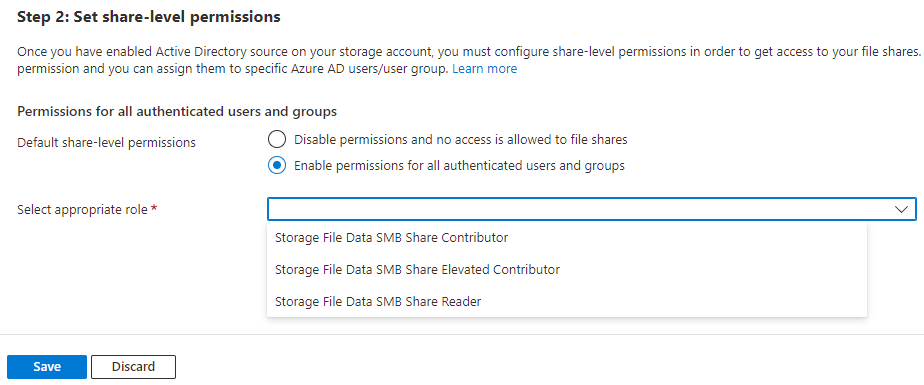
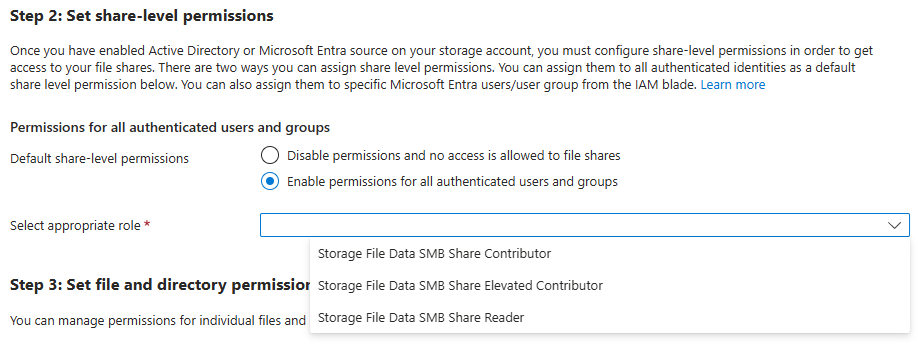
update screenshot and RBAC roles

diff --git a/articles/storage/files/storage-files-identity-assign-share-level-permissions.md b/articles/storage/files/storage-files-identity-assign-share-level-permissions.md
@@ -4,7 +4,7 @@ description: Learn how to control access to Azure Files by assigning share-level
 author: khdownie
 ms.service: azure-file-storage
 ms.topic: how-to
-ms.date: 03/04/2026
+ms.date: 03/17/2026
 ms.author: kendownie 
 ms.custom: devx-track-azurepowershell, subject-rbac-steps, devx-track-azurecli
 ms.devlang: azurecli
@@ -47,6 +47,7 @@ There are several built-in Azure role-based access control (RBAC) roles intended
 |[Storage File Data Privileged Contributor](../../role-based-access-control/built-in-roles/storage.md#storage-file-data-privileged-contributor) | Grants read, write, delete, and modify ACLs in Azure Files by overriding existing ACLs. |
 |[Storage File Data Privileged Reader](../../role-based-access-control/built-in-roles/storage.md#storage-file-data-privileged-reader) | Grants read access in Azure Files by overriding existing ACLs. |
 |[Storage File Data SMB Admin](../../role-based-access-control/built-in-roles/storage.md#storage-file-data-smb-admin) | Grants admin access equivalent to storage account key for end users over SMB. |
+|[Storage File Data SMB Take Ownership](../../role-based-access-control/built-in-roles/storage.md#storage-file-data-smb-take-ownership) | Allows end user to assume ownership of a file/directory. |
 
 <a name='share-level-permissions-for-specific-azure-ad-users-or-groups'></a>
 
@@ -54,7 +55,7 @@ There are several built-in Azure role-based access control (RBAC) roles intended
 
 If you intend to use a specific Microsoft Entra user or group to access Azure file share resources, that identity must be a [hybrid identity](/entra/identity/hybrid/whatis-hybrid-identity) that exists in both on-premises AD DS and Microsoft Entra ID. Cloud-only identities must use a [default share-level permission](#share-level-permissions-for-all-authenticated-identities).
 
-For example, say you have a user in your AD that's user1@onprem.contoso.com and you sync to Entra ID as user1@contoso.com by using Microsoft Entra Connect Sync or Microsoft Entra Connect Cloud Sync. To access Azure Files, this user must have the share-level permissions assigned to user1@contoso.com. The same concept applies to groups and service principals.
+For example, if you have a user in your AD that's user1@onprem.contoso.com and you sync to Entra ID as user1@contoso.com by using Microsoft Entra Connect Sync or Microsoft Entra Connect Cloud Sync, then the user must have the share-level permissions assigned to user1@contoso.com in order to access the file share. The same concept applies to groups and service principals.
 
 > [!IMPORTANT]
 > **Assign permissions by explicitly declaring actions and data actions instead of using a wildcard (\*) character.** If a custom role definition for a data action contains a wildcard character, all identities assigned to that role are granted access for all possible data actions. This access includes any new data action added to the platform. The additional access and permissions granted through new actions or data actions might be unwanted behavior for customers using wildcard.
@@ -126,7 +127,7 @@ To configure default share-level permissions on your storage account by using th
 
 1. In the Azure portal, go to the storage account that contains your file shares and select **Data storage > File shares**.
 1. You must enable an identity source on your storage account before assigning default share-level permissions. If you already enabled an identity source, select **Configured** next to **Identity-based access**, and proceed to the next step. Otherwise, select **Not configured**, select **Set up** under the desired identity source, and enable the identity source.
-1. After you enable an AD source, **Step 2: Set share-level permissions** is available for configuration. Select **Enable permissions for all authenticated users and groups**.
+1. After you enable an identity source, **Step 2: Set share-level permissions** is available for configuration. Select **Enable permissions for all authenticated users and groups**.
 
    :::image type="content" source="media/storage-files-identity-assign-share-level-permissions/set-default-share-level-permission.png" alt-text="Screenshot showing how to set a default share-level permission using the Azure portal." lightbox="media/storage-files-identity-assign-share-level-permissions/set-default-share-level-permission.png" border="true":::
 
@@ -182,4 +183,4 @@ Because of this process, authorization is based on the groups listed in the Kerb
 
 ## Next step
 
-After you assign share-level permissions, you can [configure directory and file-level permissions](storage-files-identity-configure-file-level-permissions.md). Wait for share-level permissions to propagate first.
+After you assign share-level permissions, you can take ownership of the file share and [configure directory and file-level permissions](storage-files-identity-configure-file-level-permissions.md). Wait for share-level permissions to propagate first.
